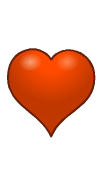
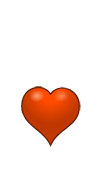
update to images

diff --git a/js/app.js b/js/app.js
@@ -19,7 +19,6 @@ Enemy.prototype.update = function(dt) {
         this.x += this.charSpeed * dt;
         this.y = (77 * lane) + 154; // to send enemies from a random lane, first lane location at 154 y-axis
     }
-
 };
 
 // Draw the enemy on the screen, required method for game
@@ -180,7 +179,7 @@ Player.prototype.handleInput = function(input) {
                 }
             }
             break;
-        }
+    }
 };
 
 Player.prototype.reset = function() { // reset x and y to start position if player falls in hole or collision occurs
@@ -316,7 +315,7 @@ var Rock = function(x, y) {
 
     this.x = x;
     this.y = y;
-    this.sprite = 'images/rock.png';
+    this.sprite = 'images/rock-1.png';
 };
 
 Rock.prototype.update = function() {
@@ -359,7 +358,7 @@ var greenGem = new Item(2, 0, 100, 'images/gem-green.png');
 var orangeGem = new Item(3, 0, 110, 'images/gem-orange.png');
 var key = new Item(4, 0, 120, 'images/key.png');
 var star = new Item(5, 0, 200, 'images/star.png');
-var heart = new Item(0, 1, 200, 'images/heart.png');
+var heart = new Item(0, 1, 200, 'images/heart-1.png');
 var allItems = [blueGem, greenGem, orangeGem, key, star, heart];
 
 // Rock objects, obstacle

diff --git a/js/engine.js b/js/engine.js
@@ -184,7 +184,7 @@ var Engine = (function(global) {
         'images/stone-block.png',
         'images/water-block.png',
         'images/grass-block.png',
-        'images/rock.png',
+        'images/rock-1.png',
         'images/hole.png',
         'images/enemy-bug.png',
         'images/orc-racer.png',
@@ -192,7 +192,7 @@ var Engine = (function(global) {
         'images/gem-blue.png',
         'images/gem-green.png',
         'images/gem-orange.png',
-        'images/heart.png',
+        'images/heart-1.png',
         'images/key.png',
         'images/star.png'
     ]);
